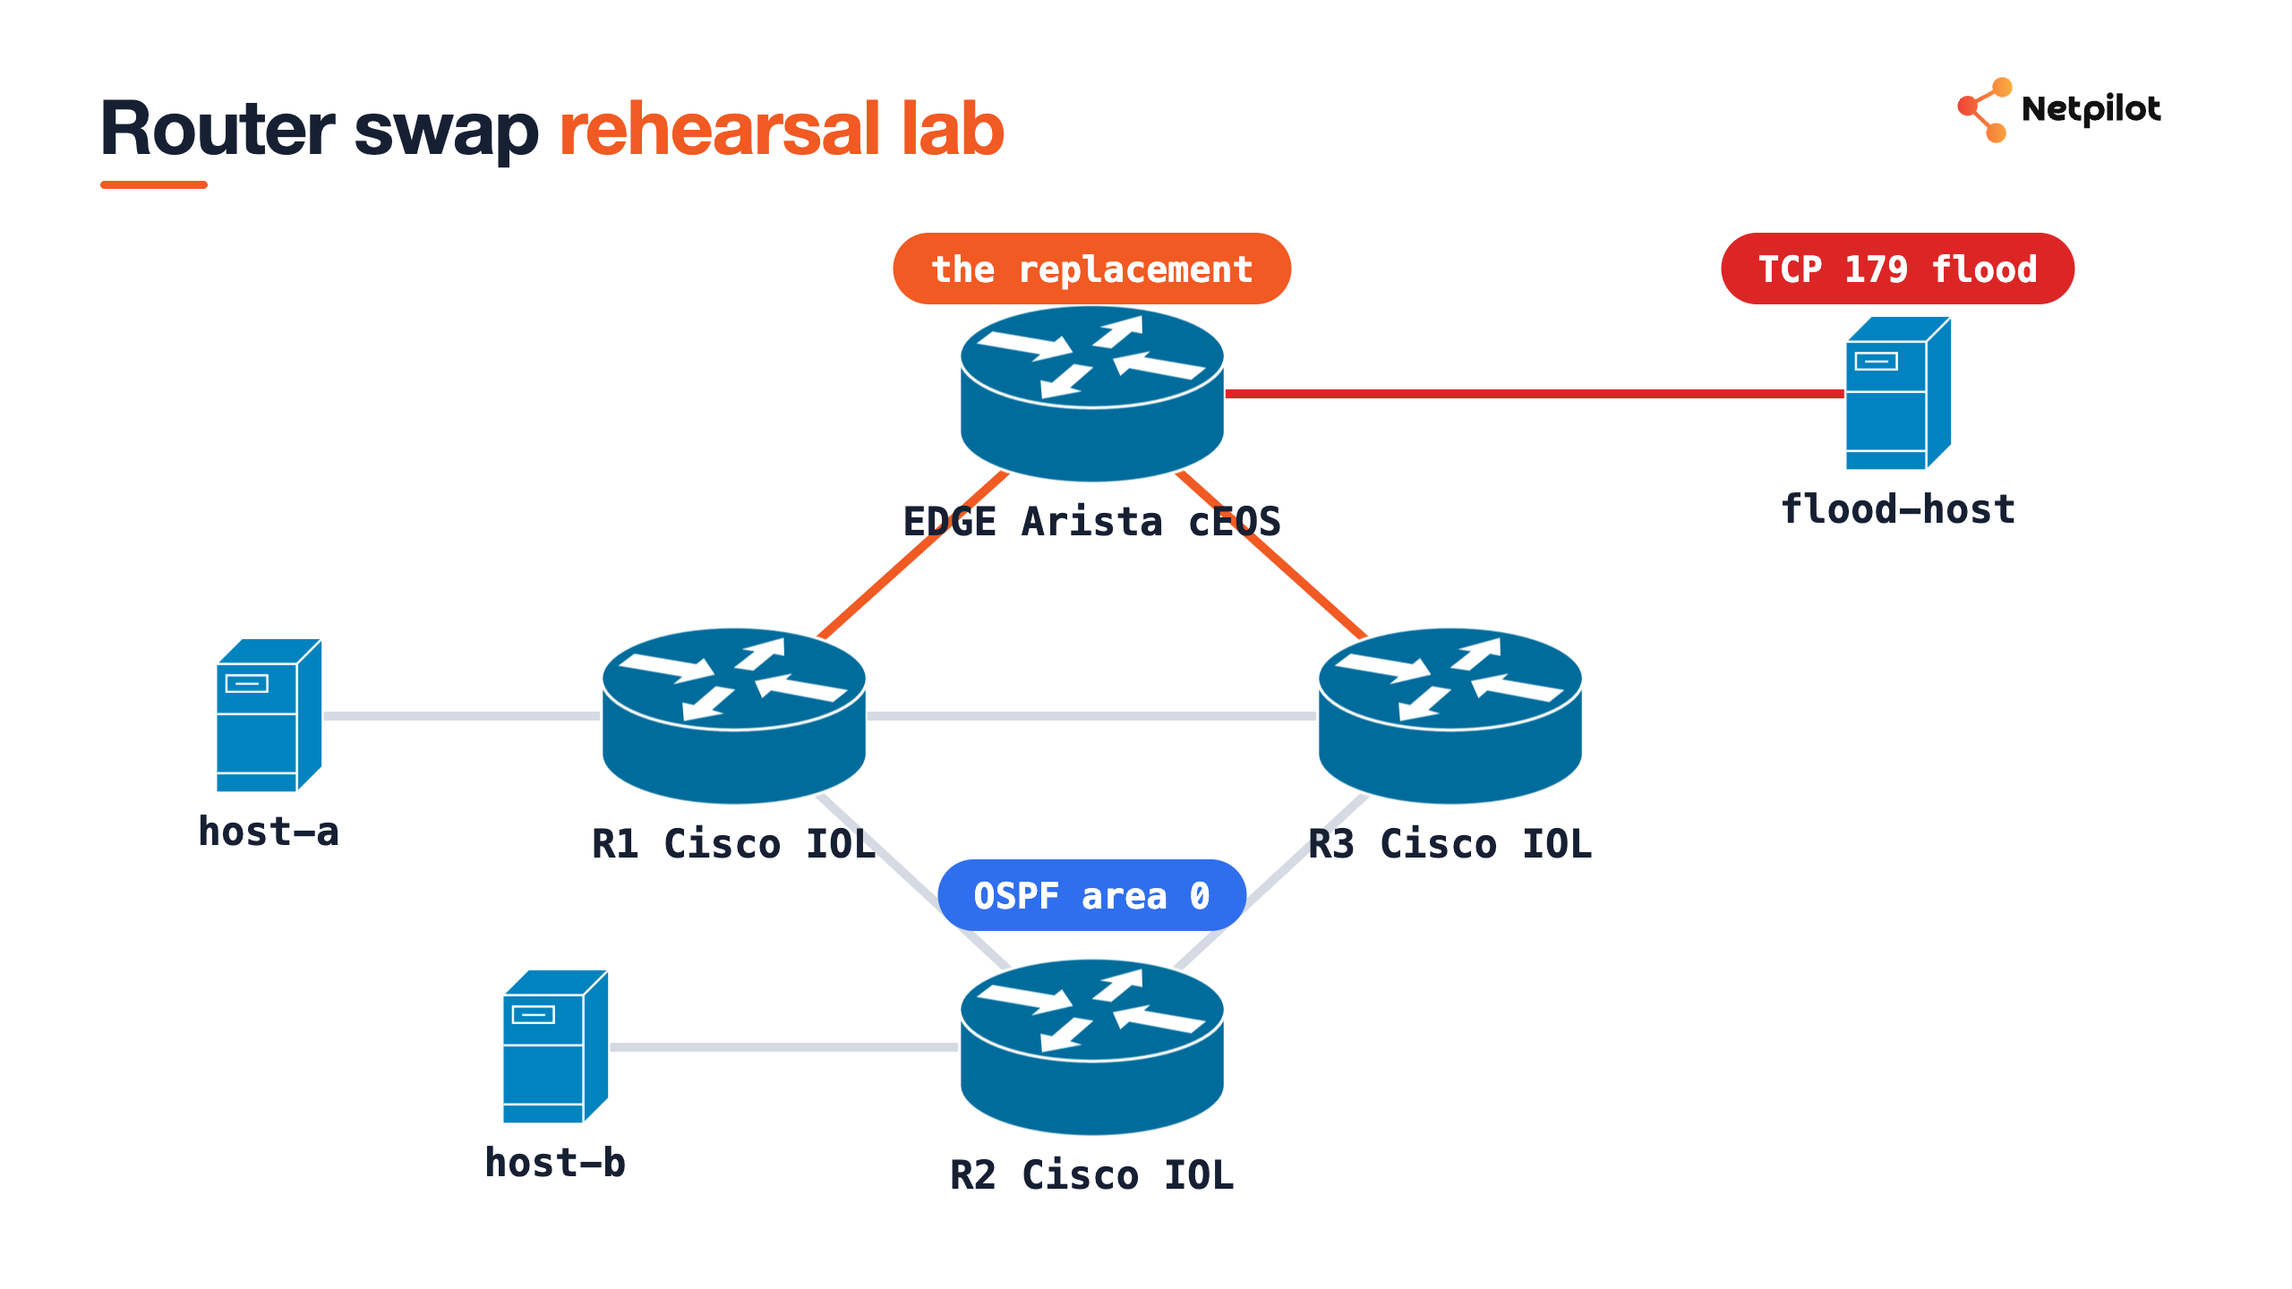
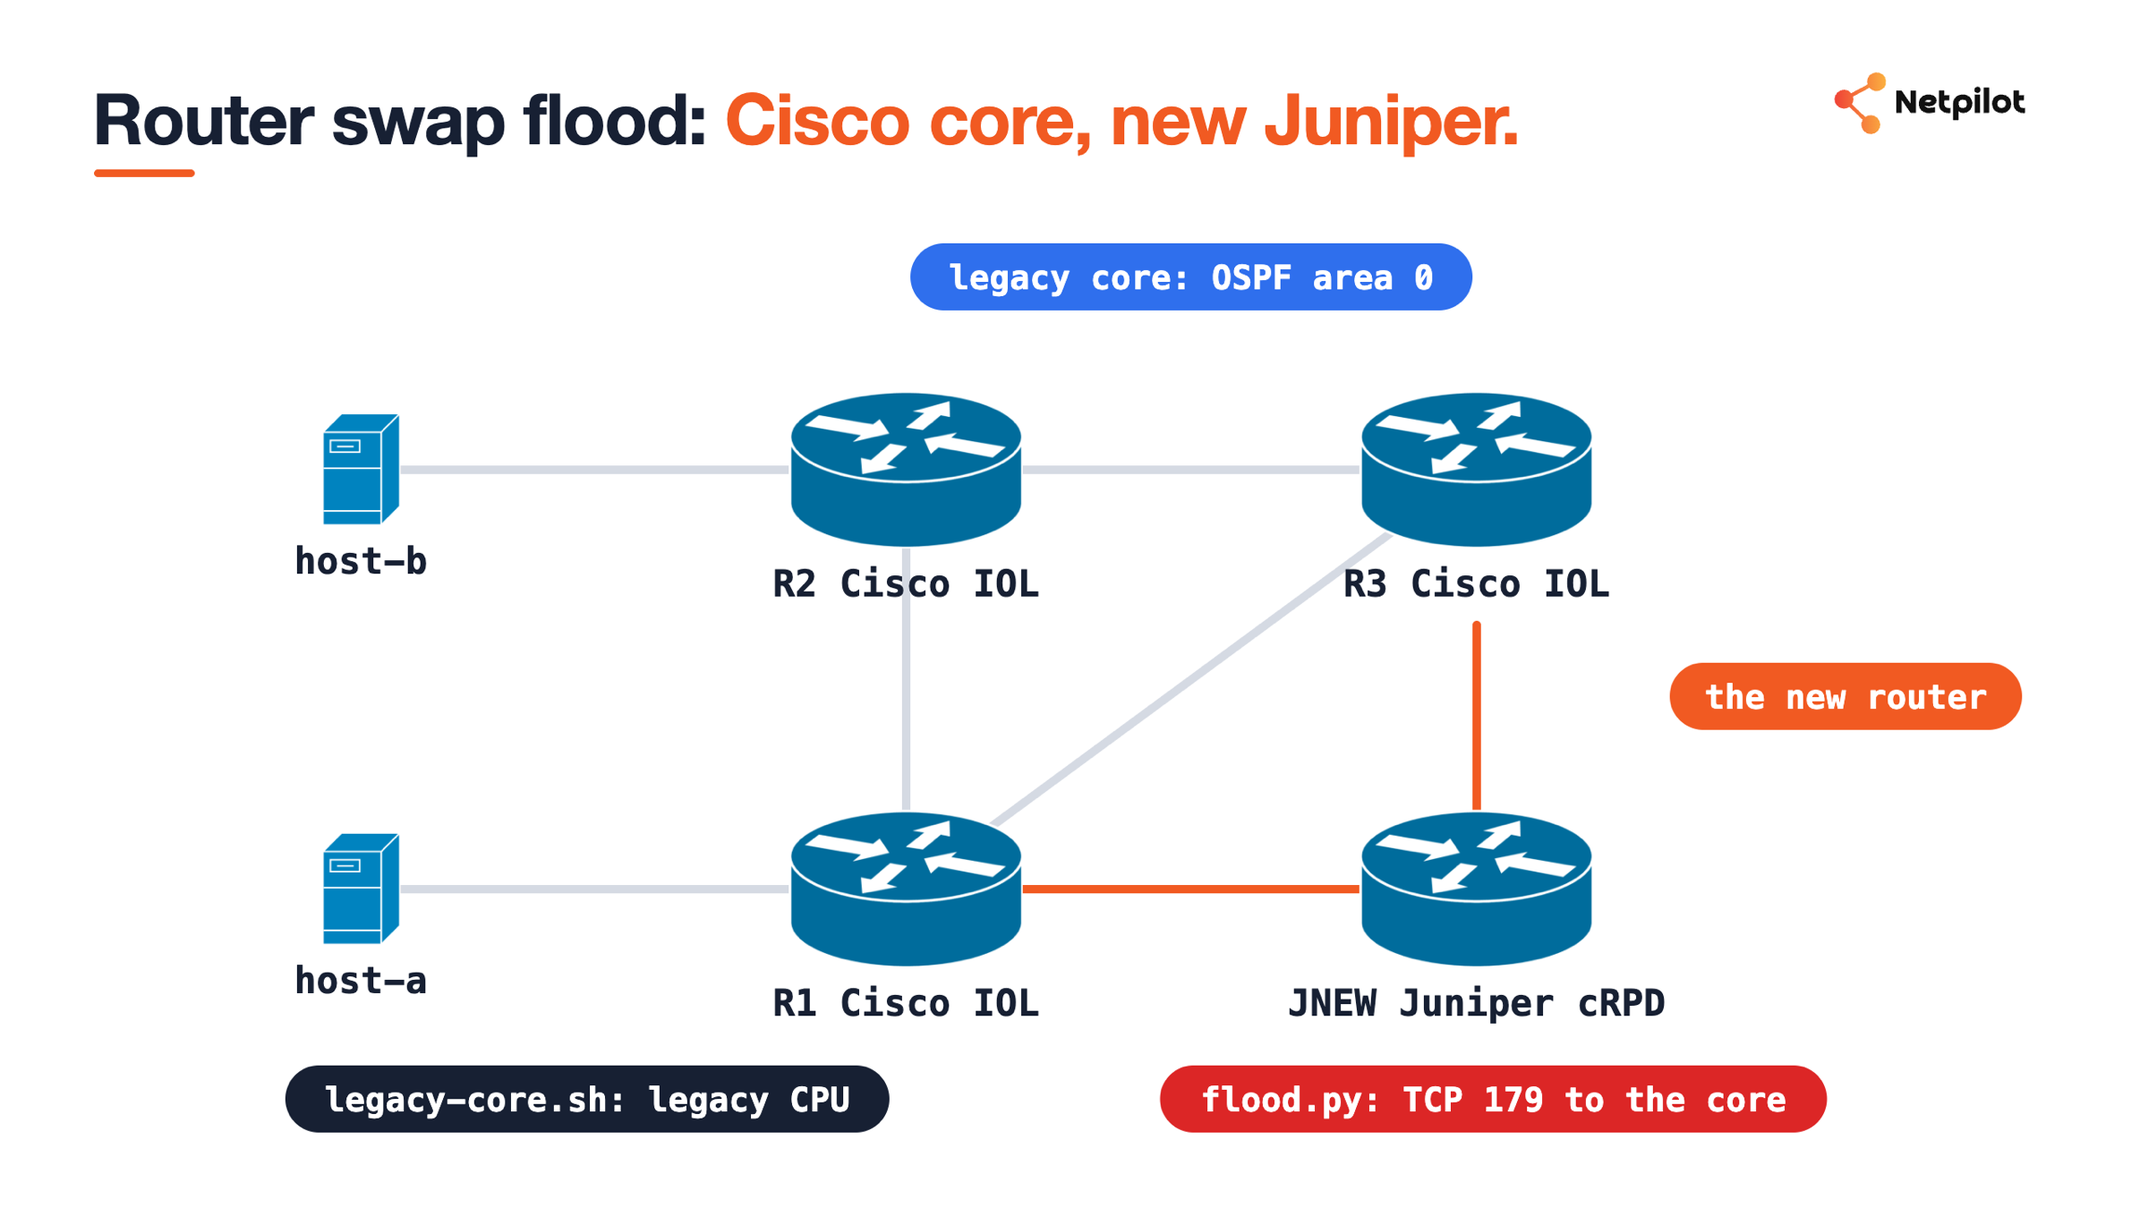
Replace the router swap flood lab with the Juniper redo and its legacy-core limit
The lab now matches the 2026-11-16 recorded run: three Cisco IOL routers as
the legacy OSPF core, a new Juniper cRPD router linked to R1 and R3 that runs
flood.py, the startup configs as first deployed, and the Cisco-side controls
the run applied (EDGE-R1-IN / EDGE-R3-IN inbound, CoPP backstop). The CPU
limit the run used ships with the lab as legacy-core.sh, so anyone who runs
it sees the same break. The Arista edge files are removed, the diagram is
redrawn, and the README carries the redo numbers.

diff --git a/multi-vendor/router-swap-control-plane-flood/flood.py b/multi-vendor/router-swap-control-plane-flood/flood.py
@@ -1,12 +1,13 @@
 #!/usr/bin/env python3
-# Misconfig simulator: ~N TCP connection attempts/sec at the Cisco core addresses.
-# Non-blocking connects: one SYN fired per attempt, paced; rate holds even when
-# the SYNs are dropped/policed (we never wait on a reply).
+# Incident reproduction: a newly installed router sends ~N TCP connection
+# attempts/sec at the legacy Cisco core addresses (control-plane punt test).
+# Non-blocking connects: one SYN per attempt, paced; the rate holds even when
+# the SYNs are dropped/policed, because we never wait for a reply.
 import socket, time, sys, itertools
 rate = int(sys.argv[1]) if len(sys.argv) > 1 else 250
 targets = [
     ("10.255.0.1", 179), ("10.255.0.2", 179), ("10.255.0.3", 179),  # core loopbacks
-    ("10.0.12.1", 179),  ("10.0.23.1", 179),  ("10.0.13.2", 179),   # core interface IPs
+    ("10.0.14.1", 179),  ("10.0.34.1", 179),  ("10.0.13.1", 179),    # core interface IPs
 ]
 interval = 1.0 / rate
 cyc = itertools.cycle(targets)
@@ -16,7 +17,7 @@ while True:
     s = socket.socket(socket.AF_INET, socket.SOCK_STREAM)
     s.setblocking(False)
     try:
-        s.connect_ex((ip, port))   # fires the SYN, returns immediately
+        s.connect_ex((ip, port))
     except OSError:
         pass
     finally:

diff --git a/multi-vendor/router-swap-control-plane-flood/README.md b/multi-vendor/router-swap-control-plane-flood/README.md
@@ -1,64 +1,74 @@
-# Router swap rehearsal: a new Arista edge floods a Cisco OSPF core, then CoPP and an edge filter contain it
+# Router swap flood: a new Juniper router floods a legacy Cisco OSPF core, then an inbound filter contains it
 
-Rehearse a site router replacement before the window. Three Cisco IOL routers are the existing core on OSPF area 0, with a Linux host on two of them. An Arista cEOS router takes over one site, linked to two of the core routers. A host behind it plays a planted misconfiguration: TCP connection attempts to port 179 on the core's addresses at a rate you set. You measure the core's CPU, OSPF neighbors and ping loss before and during the flood, trace the flooding site, then contain it with control plane policing on the Cisco routers and an inbound filter on the Arista edge.
+Recreate the FAA ground stop failure class before your own cutover window. Three Cisco IOL routers are the legacy core on OSPF area 0, with a Linux host on two of them. A new Juniper cRPD router joins OSPF, linked to two of the core routers, and sends TCP connection attempts to port 179 on the core's addresses at a rate you set. You measure the OSPF neighbors and the ping loss between the hosts before and during the flood, name the source with counters, contain it on the Cisco side and prove the network recovers with the flood still running.
 
-![R1, R2 and R3 (Cisco IOL) form an OSPF area 0 triangle. host-a hangs off R1 and host-b off R2. EDGE (Arista cEOS, the replacement) links to R1 and R3, and flood-host sits on EDGE's LAN sending a TCP 179 flood](topology.png)
+![R1, R2 and R3 (Cisco IOL) form an OSPF area 0 triangle, the legacy core slowed by legacy-core.sh. host-a hangs off R1 and host-b off R2. JNEW (Juniper cRPD, the new router) links to R1 and R3 and runs flood.py, a TCP 179 flood at the core](topology.png)
 
 | Item | Value |
 |---|---|
 | Core links | R1 to R2 10.0.12.0/30, R2 to R3 10.0.23.0/30, R1 to R3 10.0.13.0/30, point-to-point OSPF |
-| Edge links | R1 Ethernet1/0 to EDGE Ethernet1/1 10.0.14.0/30, R3 Ethernet0/3 to EDGE Ethernet1/2 10.0.34.0/30 |
-| Loopbacks | R1 10.255.0.1, R2 10.255.0.2, R3 10.255.0.3, EDGE 10.255.0.4 |
-| Host LANs | host-a 10.0.1.10/24 on R1, host-b 10.0.2.10/24 on R2, flood-host 10.0.4.10/24 on EDGE |
-| Routing | OSPF area 0 everywhere, host LANs passive |
-| The flood | `flood.py <rate>`: non-blocking TCP connects to port 179 on the six core addresses, paced to the rate |
+| New router links | R1 Ethernet1/0 to JNEW eth1 10.0.14.0/30, R3 Ethernet0/3 to JNEW eth2 10.0.34.0/30 |
+| Loopbacks | R1 10.255.0.1, R2 10.255.0.2, R3 10.255.0.3, JNEW 10.255.0.4 |
+| Host LANs | host-a 10.0.1.10/24 on R1, host-b 10.0.2.10/24 on R2 |
+| Routing | OSPF area 0 everywhere, R1's and R2's host LANs passive |
+| The flood | `flood.py <rate>` inside JNEW: non-blocking TCP connects to port 179 on the six core addresses, paced to the rate |
+| The legacy core | `legacy-core.sh` on the lab VM host: a Cisco router busy answering a flood gets almost no CPU |
+
+## The legacy core
+
+On full-speed images this flood barely registers: an earlier run at the same 250 attempts a second saw 0 % ping loss and every adjacency FULL. Officials describe legacy equipment, so the lab carries the limit with it. `legacy-core.sh` watches each Cisco IOL node and, while a node is answering a flood (TCP RSTs or SYN-ACKs leaving it at 30 a second or more), caps that container to 1 ms of CPU a second through its cgroup. Every 50 seconds it lifts the cap for 3 seconds to test again, and it gives full CPU back once the node answers under 10 a second. A node that is not answering a flood runs at full speed. A fixed CPU cap on the three nodes is not the same condition: in a trial it did not reproduce the break, and OSPF held.
+
+It needs root (or sudo) on the lab VM host, cgroup v2 with Docker's systemd cgroup driver (as on the NetPilot lab VM), and `tc` and `nsenter`. It adds tc clsact counters on the Cisco nodes' interfaces, which only count packets. `./legacy-core.sh --off` stops it and gives all three routers full CPU back, the same as `echo "max 100000" | sudo tee /sys/fs/cgroup/system.slice/docker-<container id>.scope/cpu.max` for each Cisco IOL container.
 
 ## Run it
 
 ```bash
 sudo containerlab deploy -t router-swap-flood.clab.yml
-sudo docker cp flood.py clab-router-swap-flood-flood-host:/tmp/flood.py
+sudo docker cp flood.py clab-router-swap-flood-JNEW:/tmp/flood.py
+nohup ./legacy-core.sh > legacy-core.log 2>&1 &
 ```
 
-The routers load their startup configs at deploy and the hosts get their addresses from the `exec` lines. Give OSPF about a minute to reach FULL on all five adjacencies.
+The routers load their startup configs at deploy and the hosts get their addresses from the `exec` lines. Give OSPF about a minute to reach FULL on all five adjacencies. Start `legacy-core.sh` on the host before the flood. JNEW sets `mtu 1500` on both links: cRPD takes its MTU from the container link, and a mismatch keeps OSPF from reaching FULL with the Cisco routers.
 
 ## Measure, flood, trace, contain
 
 ```bash
-# baseline: a ping five times a second across the core, and the core's CPU and neighbors
-docker exec clab-router-swap-flood-host-a ping -D -i 0.2 10.0.2.10
-# on R1, R2 and R3: show processes cpu | include CPU utilization
-#                   show ip ospf neighbor
+# baseline: 200 pings at 10 a second across the core, and the neighbors on R1, R2 and R3
+docker exec clab-router-swap-flood-host-a ping -i 0.1 -c 200 -W 1 10.0.2.10 | tail -3
+# on R1, R2 and R3: show ip ospf neighbor
 
-# the planted misconfiguration, 250 attempts a second (try 5000 and 20000 next)
-docker exec -d clab-router-swap-flood-flood-host python3 /tmp/flood.py 250
-
-# trace it on R1: input rate per interface, then a counting ACL scoped to the suspect site
-# show interfaces | include line protocol|input rate
-# ip access-list extended DETECT
-#  permit tcp 10.0.4.0 0.0.0.255 any eq bgp
-#  permit ip any any
-# interface Ethernet1/0
-#  ip access-group DETECT in
+# the flood from the new router, 250 attempts a second, then the same ping again
+docker exec -d clab-router-swap-flood-JNEW sh -c 'nohup python3 /tmp/flood.py 250 > /tmp/flood.log 2>&1 &'
+docker exec clab-router-swap-flood-JNEW tail -1 /tmp/flood.log
+# on R1: show logging | include ADJCHG
 ```
 
-Then apply `controls/copp-cisco.txt` on the three Cisco routers and `controls/edge-filter-arista.txt` on EDGE, and read the counters: `show policy-map control-plane input class CM-TCP179` on Cisco, `show ip access-lists EDGE-IN` on Arista. Measure the same three things again.
+Trace it with a counting ACL on each Cisco interface that faces JNEW, its first entry scoped to JNEW's link address. On R1 (R3 the same with `DETECT-R3`, `host 10.0.34.2` and Ethernet0/3):
 
-Set your own password where the Arista config reads `<set-a-password>` before you deploy: a cEOS startup config replaces containerlab's default one, login included. The Cisco nodes keep containerlab's default login. You bring the Arista cEOS and Cisco IOL images yourself: the [Arista](../../arista/README.md) and [Cisco](../../cisco/README.md) READMEs say where to get them. The network-multitool hosts are a public image.
+```
+ip access-list extended DETECT-R1
+ permit tcp host 10.0.14.2 any eq 179
+ permit tcp any any eq 179
+ permit ip any any
+interface Ethernet1/0
+ load-interval 30
+ ip access-group DETECT-R1 in
+```
+
+Then `show ip access-lists DETECT-R1`: the scoped entry counts the flood and the generic one stays at 0. Contain it with `controls/edge-filter-cisco.txt` on R1 and R3 and the backstop `controls/copp-cisco.txt` on all three, and measure the same two things again with the flood running. The routers' CLI can time out while the flood runs: pause it with `docker exec clab-router-swap-flood-JNEW pkill -f flood.py`, apply the controls, then start the flood again. Read the counters with `show ip access-lists EDGE-R1-IN` and `show policy-map control-plane input class CM-TCP179`.
+
+Set your own password where the Juniper config reads `<set-a-password>` before you deploy: a cRPD startup config replaces containerlab's default one, login included. The Cisco nodes keep containerlab's default login. You bring the Cisco IOL and Juniper cRPD images yourself: the [Cisco](../../cisco/README.md) and [Juniper](../../juniper/README.md) READMEs say where to get them. cRPD runs OSPF with no license. The network-multitool hosts are a public image.
 
 ## Build it from one prompt
 
-[Router swap flood rehearsal](https://github.com/netpilot-labs/example-prompts/blob/main/change-validation/router-swap-flood-rehearsal.md) builds this lab and runs every step above from one plain-English prompt in NetPilot. The run, its numbers and a cutover checklist: [FAA ground stop: the router swap flood, rebuilt in a lab](https://www.netpilot.io/blog/faa-ground-stop-router-swap-lab).
+[Router swap flood rehearsal](https://github.com/netpilot-labs/example-prompts/blob/main/change-validation/router-swap-flood-rehearsal.md) builds this lab, applies the legacy-core limit and runs every step above from one plain-English prompt in NetPilot. The run, its numbers and a cutover checklist: [FAA ground stop: the router swap flood, rebuilt in a lab](https://www.netpilot.io/blog/faa-ground-stop-router-swap-lab).
 
 ## Tested on
 
-The recorded NetPilot run on 2026-11-15, on a 16 vCPU lab VM: Cisco IOL 17.12.1, Arista cEOS 4.36.1F and network-multitool (the `latest` tag that day).
+The recorded NetPilot run on 2026-11-16, on a 16 vCPU lab VM with `legacy-core.sh` running: Cisco IOL 17.12.1, Juniper cRPD 23.2R1.13 and network-multitool (the `latest` tag that day). 14 min 10 s from the prompt to the summary.
 
-- Baseline: 5 OSPF adjacencies FULL, core CPU 0 %, host-a to host-b 188 replies with no loss
-- 250 attempts a second: core CPU 1 % or under, OSPF unchanged, ping 221 of 221
-- The trace: the counting ACL matched 2,967 packets from 10.0.4.0/24 and R1's EDGE uplink carried the input, about a minute from start to the named site
-- CoPP at 250 a second: about 82 % of the TCP 179 packets dropped on each router, the edge filter then dropped 2,626 at the source
-- No controls, 5,000 and 20,000 attempted: core CPU 6 to 8 %, all of it in IP Input, OSPF FULL and no ping lost
-- 20,000 attempted delivered about 6,447 a second to the core (one sender caps the packets on the wire). CoPP alone dropped 99.4 % of them, core CPU 0 %, ping 169 of 169
-
-The flood alone did not take this core down, at any rate the run could deliver. What a rehearsal like this gives you is the proof for your own oldest box, the counters that name the flooding site, and the two controls tested before the window.
+- Baseline: every OSPF adjacency FULL (R1 3, R2 2, R3 3), host-a to host-b 200 of 200, RTT avg 0.487 ms
+- The flood at 250.1 attempts a second from JNEW: 103 of 200 pings, 48.5 % loss, RTT avg about 2,932 ms. R1's adjacency to JNEW went down on its dead timer three times, back FULL after 7 to 24 s each time, and SSH to R1 and R3 timed out
+- The trace: the scoped entries matched 2,894 packets from 10.0.14.2 on R1 and 3,010 from 10.0.34.2 on R3, the generic entry 0 on both. About 1 min 20 s from the counting ACL to the named source
+- The fix, flood still at 250.1 a second: 200 of 200 pings, RTT 0.452 ms, every adjacency FULL. EDGE-R1-IN denied 8,734 and EDGE-R3-IN 4,364 in the first minute
+- CoPP alone, R1's filter lifted for about 15 s: 525 conformed, 354 dropped, OSPF FULL

diff --git a/README.md b/README.md
@@ -21,7 +21,7 @@ Need a lab for a change, a design review, a certification or a customer demo? Fi
 | [ebgp-three-as-arista-nokia-frr](multi-vendor/ebgp-three-as-arista-nokia-frr) | Arista cEOS, Nokia SR Linux, FRR | Three routers in three autonomous systems with eBGP and loopback reachability end to end | | bring your own (cEOS), free, public (SR Linux, FRR) | cEOS 4.36.1F, SR Linux, FRR 8.4 | [prompt](https://github.com/netpilot-labs/example-prompts/blob/main/routing/bgp-ebgp-three-as.md#from-claude) | [read](https://www.netpilot.io/blog/netpilot-in-claude#multi-vendor-ebgp-from-one-prompt) |
 | [ospf-three-vendor-cisco-arista-junos](multi-vendor/ospf-three-vendor-cisco-arista-junos) | Cisco IOL, Arista cEOS, Juniper cRPD | Three routers from three vendors in OSPF area 0 with loopback reachability end to end | | bring your own | IOL 17.12.1, cEOS 4.36.1F, cRPD 23.2R1.13 | [prompt](https://github.com/netpilot-labs/example-prompts/blob/main/multi-vendor/all-vendors-ospf-area-0.md#from-chatgpt) | [read](https://www.netpilot.io/blog/chatgpt-multi-vendor-network-lab) · [watch](https://www.youtube.com/watch?v=RSbXFoUDr98) |
 | [evpn-vxlan-arista-nokia-cisco-edge](multi-vendor/evpn-vxlan-arista-nokia-cisco-edge) | Arista cEOS, Nokia SR Linux, Cisco IOL | Two spines, an Arista border leaf and a Nokia leaf: eBGP underlay with BFD, BGP EVPN overlay, a stretched VLAN, a routed VRF and a Cisco WAN edge sending the default route, tested with a spine down | | bring your own (cEOS, IOL), free, public (SR Linux) | cEOS 4.36.1F, SR Linux 25.10.1, IOL 17.12.1, containerlab 0.77.0 | [prompt](https://github.com/netpilot-labs/example-prompts/blob/main/multi-vendor/evpn-vxlan-fabric-design-check.md) | [read](https://www.netpilot.io/blog/validate-evpn-vxlan-fabric-design) · [watch](https://www.youtube.com/watch?v=IyGWNQsMI28) |
-| [router-swap-control-plane-flood](multi-vendor/router-swap-control-plane-flood) | Cisco IOL, Arista cEOS | A Cisco OSPF core and a new Arista edge whose site floods the core with TCP 179 connection attempts: before and during numbers, the trace to the site, CoPP and an edge filter | | bring your own (cEOS, IOL) | cEOS 4.36.1F, IOL 17.12.1 | [prompt](https://github.com/netpilot-labs/example-prompts/blob/main/change-validation/router-swap-flood-rehearsal.md) | [read](https://www.netpilot.io/blog/faa-ground-stop-router-swap-lab) |
+| [router-swap-control-plane-flood](multi-vendor/router-swap-control-plane-flood) | Cisco IOL, Juniper cRPD | A legacy Cisco OSPF core and a new Juniper router that floods it with TCP 179 connection attempts, the FAA ground stop failure recreated: before and during numbers, the source named by counters, an inbound filter and CoPP on the Cisco side | | bring your own (IOL, cRPD) | IOL 17.12.1, cRPD 23.2R1.13 | [prompt](https://github.com/netpilot-labs/example-prompts/blob/main/change-validation/router-swap-flood-rehearsal.md) | [read](https://www.netpilot.io/blog/faa-ground-stop-router-swap-lab) |
 | [two-switches](arista/two-switches) | Arista cEOS | Two cEOS switches and two hosts with eBGP, configured at deploy | | bring your own | cEOS 4.36.1F, containerlab 0.77.0 and 0.82.0 | [prompt](https://github.com/netpilot-labs/example-prompts/blob/main/routing/arista-ceos-ebgp-two-switches.md) | [read](https://www.netpilot.io/blog/arista-ceos-containerlab) |
 | [mlag-pair](arista/mlag-pair) | Arista cEOS | An MLAG pair with VARP, a host on an LACP bond and a third switch on an MLAG port channel | | bring your own | cEOS 4.36.1F, containerlab 0.77.0 and 0.82.0 | [prompt](https://github.com/netpilot-labs/example-prompts/blob/main/data-center/arista-mlag-varp-pair.md) | [read](https://www.netpilot.io/blog/arista-mlag-lab) |
 | [two-switches](sonic/two-switches) | SONiC | Two SONiC switches on one link, configured by hand | | free, public | sonic-vs 202511, containerlab 0.77.0 and 0.82.0 | [prompt](https://github.com/netpilot-labs/example-prompts/blob/main/routing/sonic-ebgp-two-switches.md) | [read](https://www.netpilot.io/blog/sonic-containerlab) |
